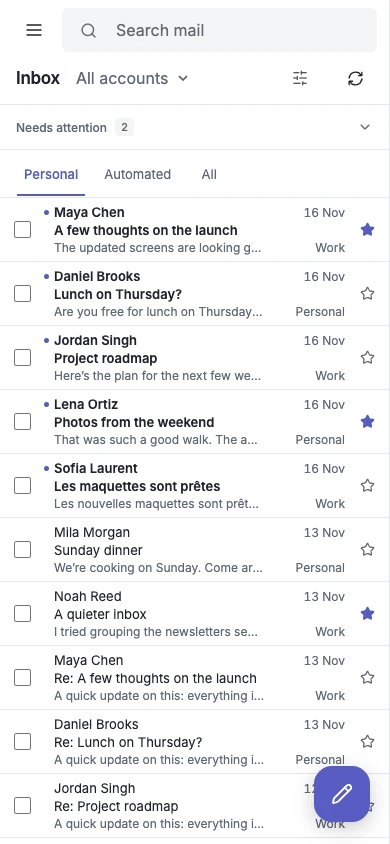
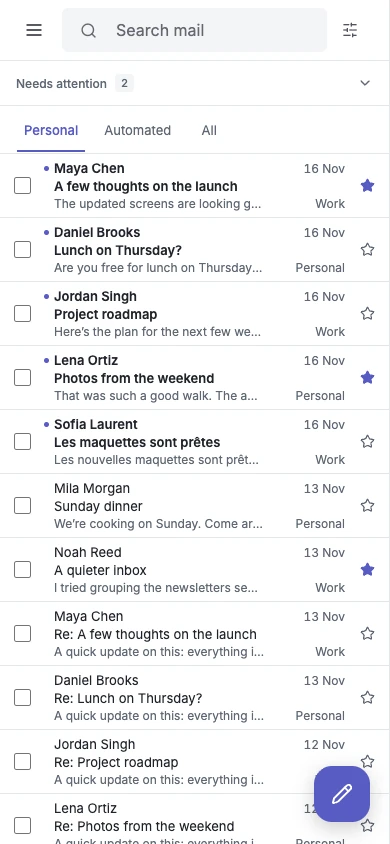
Update the single-row mobile inbox capture

diff --git a/apps/web/browser/fixtures.ts b/apps/web/browser/fixtures.ts
@@ -120,7 +120,8 @@ export type FixtureState = {
 
 export async function selectAccount(page: Page, id: string) {
   const navigation = page.getByRole("navigation", { name: "Accounts", exact: true });
-  if (!await navigation.isVisible()) await page.getByRole("button", { name: "Open navigation", exact: true }).click();
+  const open = page.getByRole("button", { name: "Open navigation", exact: true });
+  if (await open.isVisible() && !await page.locator(".app").evaluate(element => element.classList.contains("nav-open"))) await open.click();
   const label = id === "all" ? "All accounts" : accounts.find(account => account.id === id)?.display_name || id;
   await navigation.getByTitle(label, { exact: true }).click();
 }

diff --git a/docs/images/README.md b/docs/images/README.md
@@ -2,7 +2,7 @@
 
 Captured on 2026-11-15 from source revision `c63030c`, using the running Dakia frontend in an isolated Google Chrome session. All mail, names, addresses, and attachments are fictional. No real mailbox, personal browser profile, provider connection, or email delivery was used.
 
-The mobile inbox was refreshed on 2026-11-16 from source revision `5c20f3c`, with the compact folder/account row, expandable attention summary, and underline tabs. Other captures retain the revision above.
+The mobile inbox was refreshed on 2026-11-16 from source revision `8e0f5ea`, with a single-row search toolbar, expandable attention summary, and underline tabs. Accounts and Refresh mail are available in the mobile sidebar. Other captures retain the revision above.
 
 ## Inbox, sending, and mobile
 
@@ -22,8 +22,8 @@ Open `http://127.0.0.1:5188/?reset=1` in an isolated Chrome profile. Desktop vie
 | `transactions.webp` | Transactions selected, with matching receipts and an attachment |
 | `attention.webp` | Needs attention sidebar view with a verification code and cancelled flight |
 | `compose.webp` | New message to Maya, with Send later → Pick date & time open; cropped to the composer and picker |
[2 lines of base64/hex data omitted]
+| `inbox-mobile.webp` | Personal inbox with a single-row search toolbar and collapsed attention summary |
+| `reader-mobile.webp` | Maya’s conversation in the narrow layout, with dark theme enabled |
 
 Mobile images are responsive browser captures, not native phone screenshots. The demo read-state notice was dismissed with its normal control before capturing the mobile reader. Normal scroll boundaries, toolbar behavior, and the app's email-rendering colors are retained.
 
@@ -57,7 +57,7 @@ Google Chrome reported version 157.0.8103.51. Source captures were PNG. Exports 
[8 lines of base64/hex data omitted]
